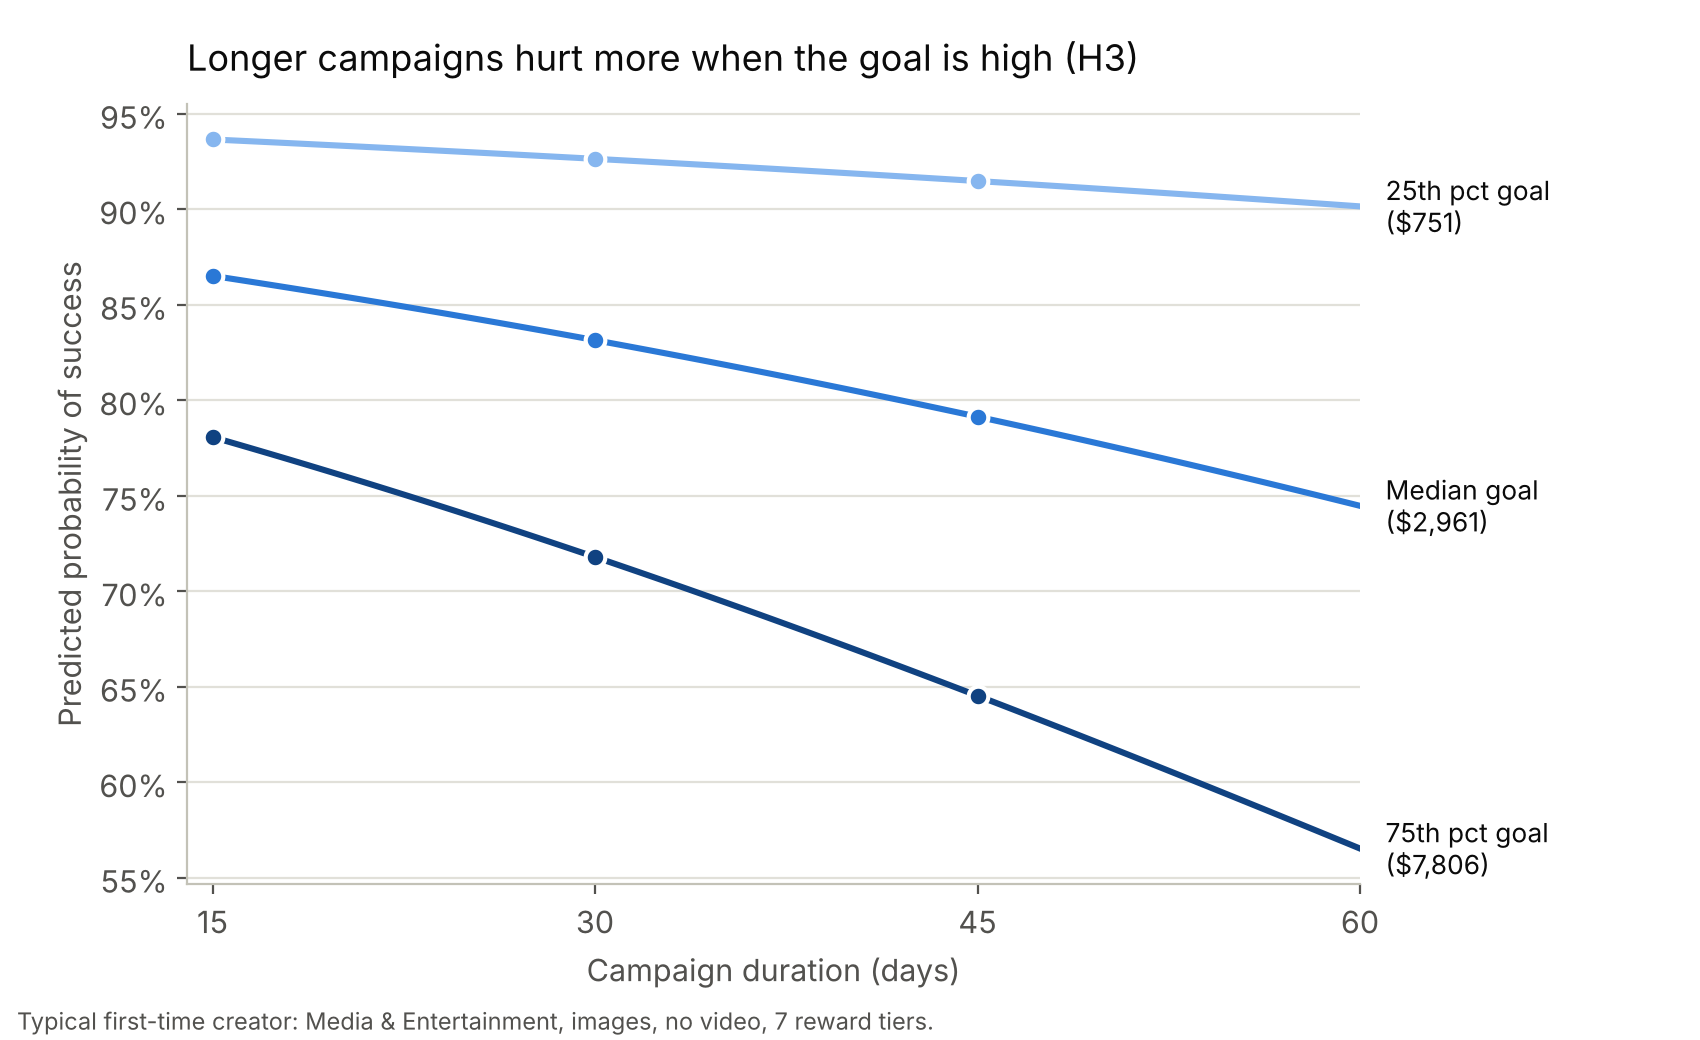
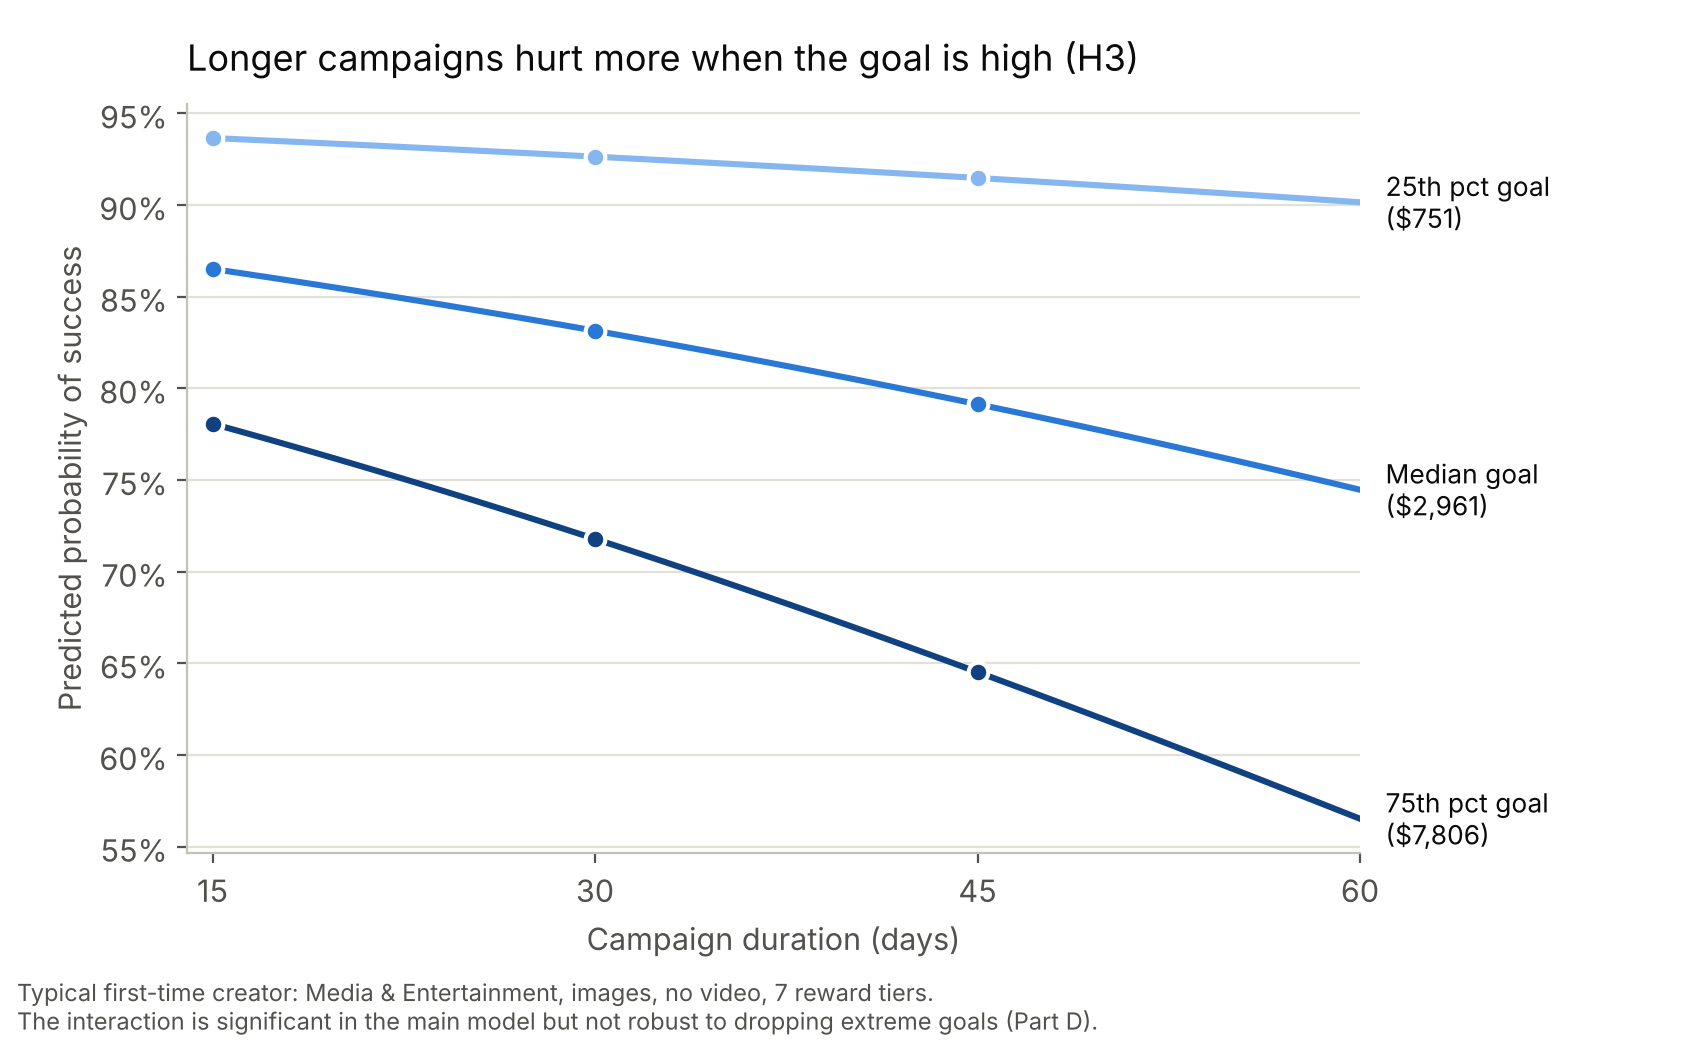
Add files via upload

diff --git a/Part C/Part_C_Interpretation.md b/Part C/Part_C_Interpretation.md
@@ -30,7 +30,8 @@ Results come from Part A's final logistic model, fitted on the training set (n =
 | 75th pct ($7,806) | 78.1% | 71.8% | 64.5% |
 
 **Key points**
-- **H3 is supported:** interaction OR 0.97 (p = 0.004). The likelihood-ratio test also favors keeping the interaction (p = 0.004).
+- **H3 is supported in the main model:** interaction OR 0.97 (p = 0.004). The likelihood-ratio test also favors keeping the interaction (p = 0.004).
+- **But it is fragile (Part D):** dropping the 20 most influential campaigns raises p to 0.105, and dropping goals under $100 or over $1M raises it to 0.43. So the interaction is driven largely by extreme goals.
 - **Effect of +10 days on the odds:**
   - small goal: −10%;
   - median goal: −16%;
@@ -39,7 +40,7 @@ Results come from Part A's final logistic model, fitted on the training set (n =
   - only about 2 points of success probability for a small goal;
   - about 14 points for a large goal.
 
-**Speaker notes (~45 s):** "This was the hypothesis we added after the PoC. Because goal and duration are correlated, we let the effect of duration depend on the goal. The lines show it clearly. For a small goal, the line is almost flat, so duration barely matters. For a large goal, stretching from 15 to 45 days drops the predicted success rate from 78% to 65%. A long campaign seems to signal weak demand, and that matters most when the creator is asking for a lot."
+**Speaker notes (~45 s):** "This was the hypothesis we added after the PoC. Because goal and duration are correlated, we let the effect of duration depend on the goal. The lines show it clearly. For a small goal, the line is almost flat, so duration barely matters. For a large goal, stretching from 15 to 45 days drops the predicted success rate from 78% to 65%. A long campaign seems to signal weak demand, and that matters most when the creator is asking for a lot. One caution from our diagnostics: this interaction depends heavily on campaigns with extreme goals, so we treat it as suggestive rather than conclusive. The main effects of goal and duration, on the other hand, are robust."
 
 ---
 
@@ -67,11 +68,11 @@ Results come from Part A's final logistic model, fitted on the training set (n =
 |---|---|---|---|
 | H1 | Higher goal → lower success | OR 0.62 per doubling (p<0.001) | Supported |
 | H2 | Longer duration → lower success | OR 0.85 per +10 days (p<0.001) | Supported |
-| H3 | Duration hurts more for high goals | Interaction OR 0.97 (p=0.004); LR test p=0.004 | Supported |
+| H3 | Duration hurts more for high goals | OR 0.97 (p=0.004); p=0.43 without extreme goals | Supported in main model, not robust |
 | H4 | Previous success → higher success | OR 3.14 (p<0.001) | Supported |
 | H5 | Richer page → higher success | Reward tiers OR 1.10 (p<0.001); images and video n.s. | Partly supported |
 
-**Honest caveat to mention:** H3 is statistically significant, but it adds very little predictive power (test AUC 0.814 with the interaction vs 0.813 without, from Part B). Its value is in explanation and advice, not in better prediction.
+**Honest caveat to mention:** H3 is significant in the main model, but it is not robust: it loses significance when extreme goals are removed (Part D), and it adds almost no predictive power (test AUC 0.814 vs 0.813, Part B). We report it as suggestive. H1, H2, H4 and the reward-tier effect are robust in every check.
 
 ---
 
@@ -104,5 +105,5 @@ Results come from Part A's final logistic model, fitted on the training set (n =
 - **最有亮点的两处：**
   - Slide 2：H3 是 PoC 之后新加的假设，结果被支持。
   - Slide 1 里 Creative Arts 的"反转"：原始成功率最高，控制目标和创作者历史后反而更低。这一条很能体现 insight。
-- **主动承认交互项的局限：**交互项显著，但对 AUC 几乎没有提升。主动讲出来，体现严谨。
+- **主动承认交互项的局限：**交互项在主模型里显著，但去掉极端目标后就不显著了（D 的稳健性检验），对 AUC 也几乎没有提升。讲成"有迹象但不稳健（suggestive）"。
 - **所有概率的前提：**都是在"典型首次创作者"这个画像下算的，图下面已经注明了。
